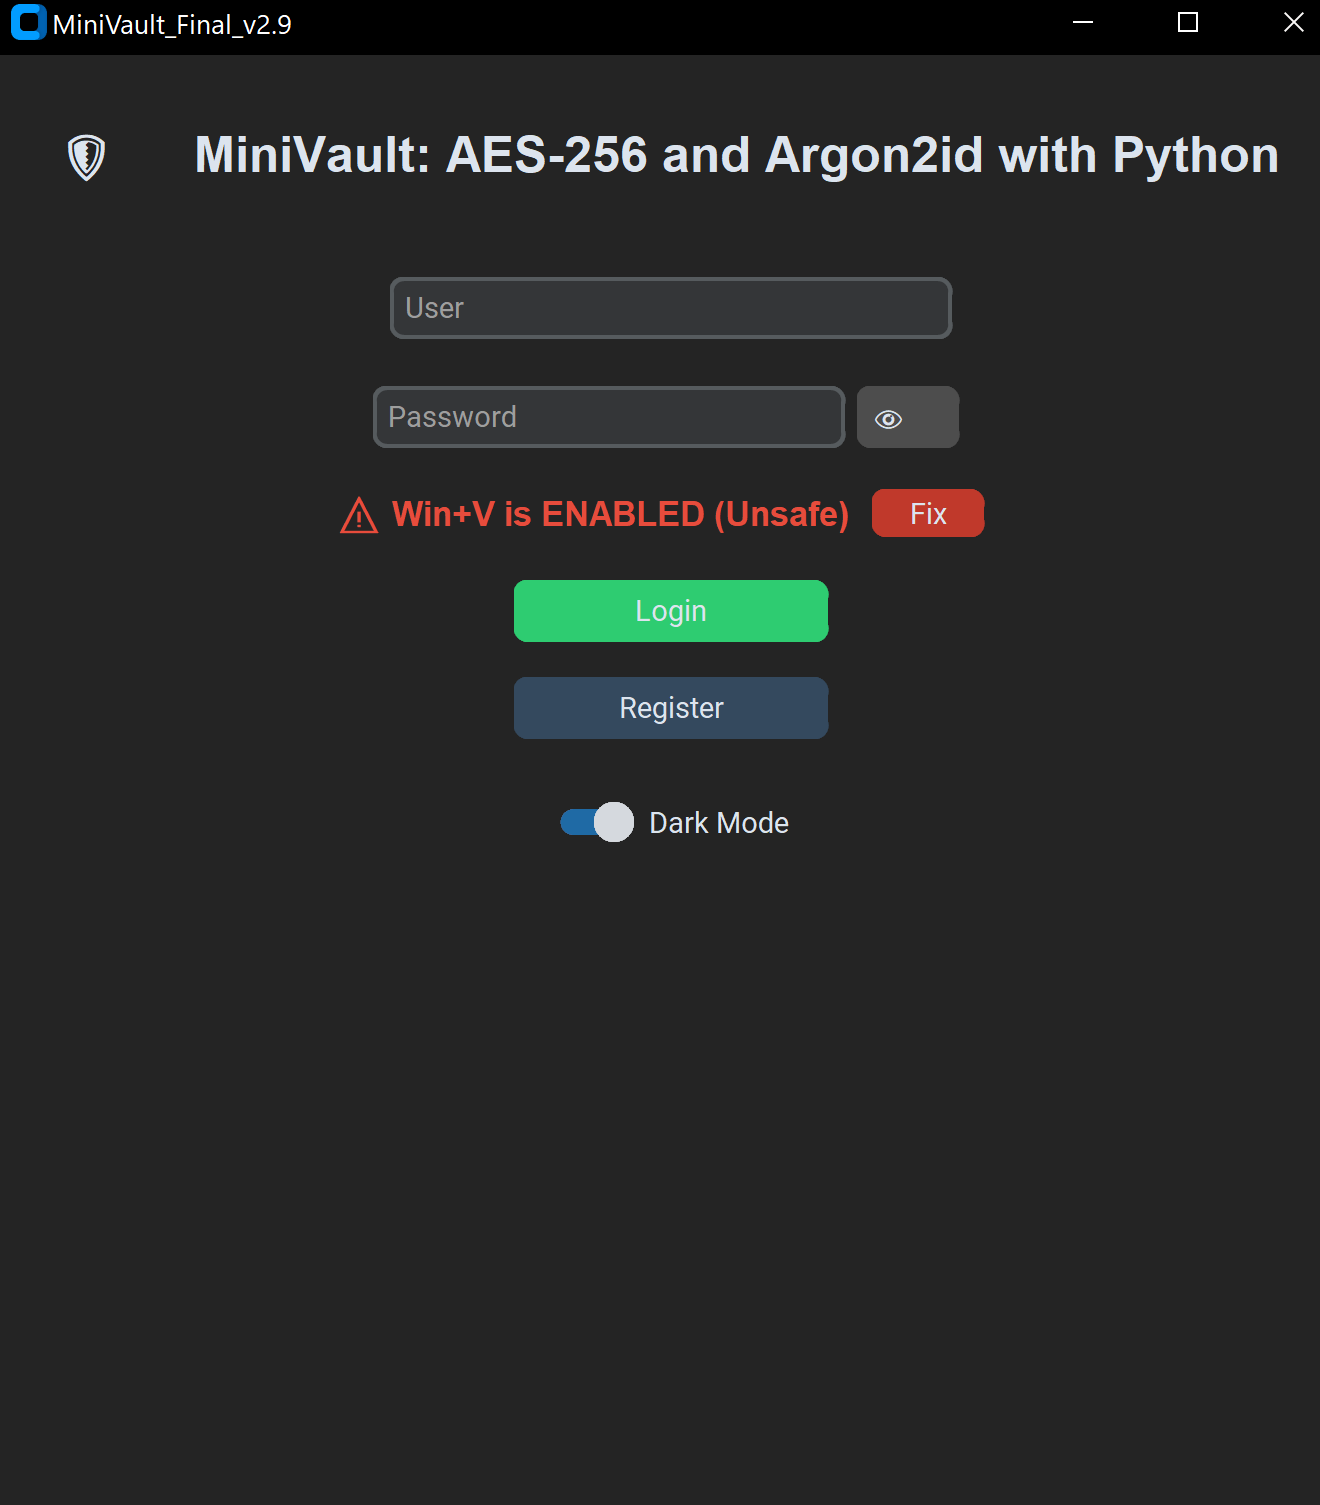
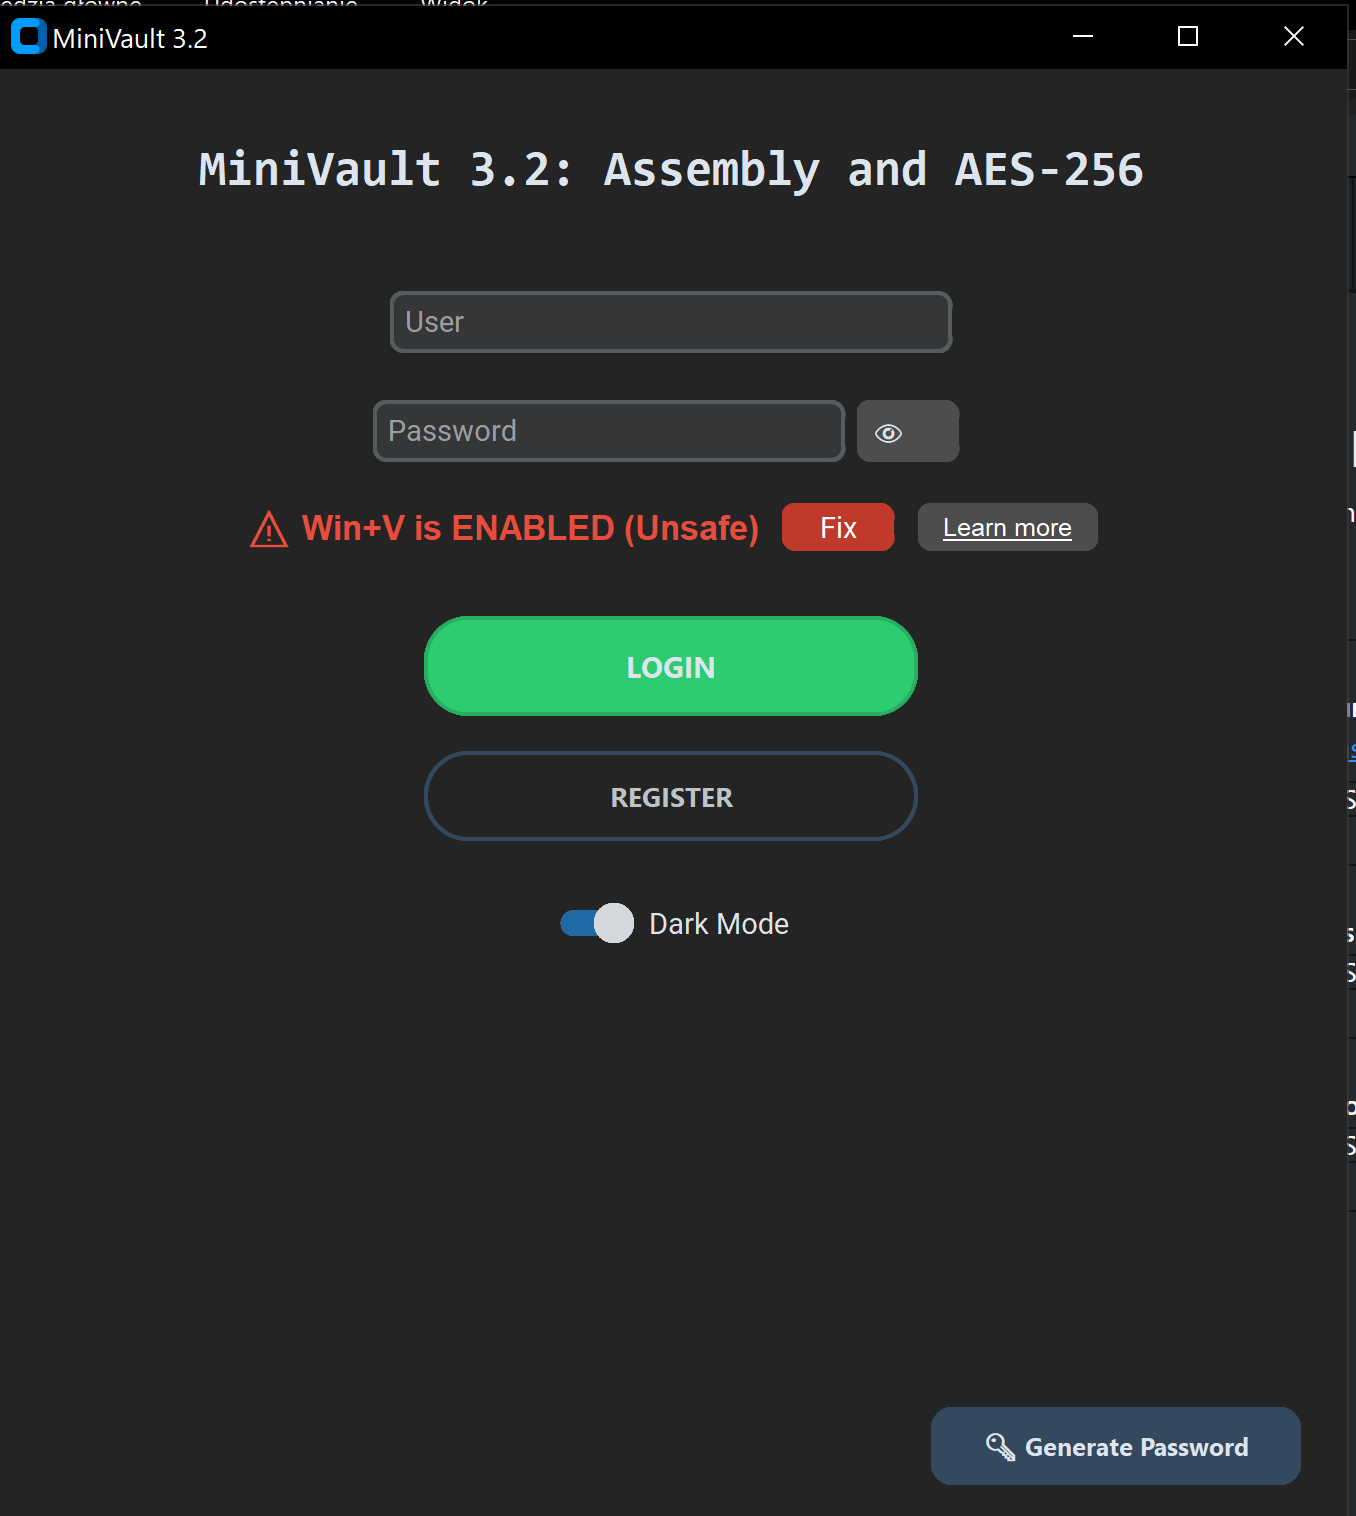
MiniVault 3.2

diff --git a/README.md b/README.md
@@ -4,6 +4,8 @@
 
 ![MiniVault Interface](screenshots/minivault.png)
 ![MiniVault Interface - Win+V is ENABLED](screenshots/minivault_winv_enabled.png)
+![MiniVault Learn More](screenshots/winv_risk.png)
+![MiniVault Generate Password](screenshot/generate_password_screen.png)
 
 ---
 
